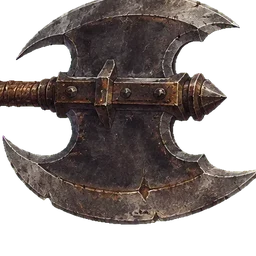
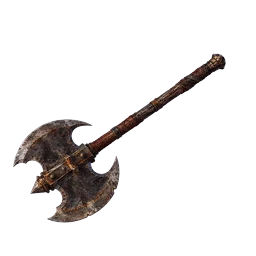
Add files via upload

diff --git a/index.html b/index.html
@@ -5,7 +5,7 @@
   <meta name="viewport" content="width=device-width, initial-scale=1, maximum-scale=1, user-scalable=no, viewport-fit=cover">
   <meta name="theme-color" content="#0b0a10">
   <title>천공탑 — 홀로 오르는 자</title>
-  <link rel="stylesheet" href="css/style.css?v=75">
+  <link rel="stylesheet" href="css/style.css?v=76">
 </head>
 <body>
   <canvas id="game"></canvas>
@@ -47,7 +47,7 @@
     <h1>천공탑</h1>
     <p class="sub">홀로 오르는 자</p>
     <p class="tap">화면을 터치해서 시작</p>
-    <p class="ver">개발 버전 · v75</p>
+    <p class="ver">개발 버전 · v76</p>
   </div>
 
   <!-- 로비 (탑 입구) -->
@@ -131,34 +131,34 @@
 
   <!-- 순서 중요: 위에 있는 파일을 아래 파일이 사용함 -->
   <!-- ?v= 숫자: 업데이트할 때마다 올리기 (config.js의 G.VERSION과 같은 숫자) -->
-  <script src="js/config.js?v=75"></script>
-  <script src="js/save.js?v=75"></script>
-  <script src="js/sound.js?v=75"></script>
-  <script src="js/items.js?v=75"></script>
-  <script src="js/skills.js?v=75"></script>
-  <script src="js/input.js?v=75"></script>
-  <script src="js/rig.js?v=75"></script>
-  <script src="js/render.js?v=75"></script>
-  <script src="js/stage.js?v=75"></script>
-  <script src="js/effects.js?v=75"></script>
-  <script src="js/combat.js?v=75"></script>
-  <script src="js/player.js?v=75"></script>
-  <script src="js/bosses.js?v=75"></script>
-  <script src="js/bossfx.js?v=75"></script>
-  <script src="js/boss.js?v=75"></script>
-  <script src="js/beast.js?v=75"></script>
-  <script src="js/flyer.js?v=75"></script>
-  <script src="js/brute.js?v=75"></script>
-  <script src="js/floors.js?v=75"></script>
-  <script src="js/mobsprite.js?v=75"></script>
-  <script src="js/mobs.js?v=75"></script>
-  <script src="js/intro.js?v=75"></script>
-  <script src="js/cine.js?v=75"></script>
-  <script src="js/talk.js?v=75"></script>
-  <script src="js/floor.js?v=75"></script>
-  <script src="js/hero3d.js?v=75"></script>
-  <script src="js/descent.js?v=75"></script>
-  <script src="js/lobby.js?v=75"></script>
-  <script src="js/main.js?v=75"></script>
+  <script src="js/config.js?v=76"></script>
+  <script src="js/save.js?v=76"></script>
+  <script src="js/sound.js?v=76"></script>
+  <script src="js/items.js?v=76"></script>
+  <script src="js/skills.js?v=76"></script>
+  <script src="js/input.js?v=76"></script>
+  <script src="js/rig.js?v=76"></script>
+  <script src="js/render.js?v=76"></script>
+  <script src="js/stage.js?v=76"></script>
+  <script src="js/effects.js?v=76"></script>
+  <script src="js/combat.js?v=76"></script>
+  <script src="js/player.js?v=76"></script>
+  <script src="js/bosses.js?v=76"></script>
+  <script src="js/bossfx.js?v=76"></script>
+  <script src="js/boss.js?v=76"></script>
+  <script src="js/beast.js?v=76"></script>
+  <script src="js/flyer.js?v=76"></script>
+  <script src="js/brute.js?v=76"></script>
+  <script src="js/floors.js?v=76"></script>
+  <script src="js/mobsprite.js?v=76"></script>
+  <script src="js/mobs.js?v=76"></script>
+  <script src="js/intro.js?v=76"></script>
+  <script src="js/cine.js?v=76"></script>
+  <script src="js/talk.js?v=76"></script>
+  <script src="js/floor.js?v=76"></script>
+  <script src="js/hero3d.js?v=76"></script>
+  <script src="js/descent.js?v=76"></script>
+  <script src="js/lobby.js?v=76"></script>
+  <script src="js/main.js?v=76"></script>
 </body>
 </html>

diff --git a/js/items.js b/js/items.js
@@ -26,14 +26,17 @@ G.Items = {
     desc: '사냥꾼들을 삼킨 짐승의 부러진 엄니. 궁지에 몰릴수록 피가 끓어오른다.',
     special: { kind: 'frenzy', below: 0.3, mul: 1.5, text: '체력 30% 이하일 때 공격력 50% 증가' },
   },
-  // 미노타우로스의 도끼 (무기): 공격력이 크게 오르지만 휘두르는 속도가 15% 느려짐
-  //   도끼 그림(sword)이 아직 없어서 손에 든 무기는 기본 검 모양. 그림이 오면 sword·fx를 채움
+  // 미노타우로스의 도끼 (무기): 공격력 +3, 3타가 땅을 찍으면 앞으로 충격파. 대신 휘두르는 속도가 15% 느려짐
   mino_axe: {
     name: '미노타우로스의 도끼', slot: 'weapon', from: '4F 미노타우로스',
     icon: 'assets/items/mino_axe_icon.webp',
     desc: '미궁의 괴물이 평생 휘두른 양날 도끼. 무겁지만, 한 번 맞으면 끝이다.',
-    atk: 5,
-    special: { kind: 'swift', mul: 0.85, text: '공격력 +5, 대신 공격 속도 15% 느림' },
+    atk: 3,
+    speed: 0.85,                                        // 공격 속도 배율 (15% 느림)
+    special: { kind: 'quake', dmg: 9, range: 320, speed: 650, text: '3타가 땅을 찍어 앞으로 충격파 — 줄에 선 적 모두에게 9 추가 피해 (공격 속도 15% 느림)' },
+    // 그림: 도끼날이 왼쪽, 손잡이가 오른쪽 (받은 그림을 좌우 반전). grip은 원본 크기(1760×769) 기준 손잡이 끝 쪽
+    sword: { img: 'assets/items/mino_axe.webp', shape: 'assets/items/mino_axe.json', len: 1.3, grip: [1500, 367] },
+    fx: { slash: '255, 170, 90', heavy: '255, 120, 60', edge: '255, 230, 200', trail: '255, 150, 80', spark: '255, 180, 100' },
   },
   // 여왕의 깃털 (장신구): 3단 점프 — 어느 층에서든 공중에서 두 번 더 뛰어오름
   //   (공격 속도 효과 swift는 나중 장비에 쓸 수 있게 G.Equip.atkSpeed로 남겨 둠)
@@ -77,8 +80,8 @@ G.Equip = (function () {
     O.push(id); G.Save.save();
     return G.Items[id];
   }
-  // 공격 속도 배율 (special kind 'swift'의 mul. 1보다 작으면 느려짐 — 미노타우로스의 도끼 0.85)
-  function atkSpeed() { const f = special('swift'); return f ? f.mul : 1; }
+  // 공격 속도 배율: 장비의 speed(또는 special 'swift'의 mul)를 곱함. 1보다 작으면 느려짐 — 미노타우로스의 도끼 0.85
+  function atkSpeed() { return list().reduce((m, it) => m * (it.speed || (it.special && it.special.kind === 'swift' ? it.special.mul : 1)), 1); }
   // 지금 든 무기의 이펙트 색 (없으면 null = 기본 색)
   function fx() { const w = item('weapon'); return (w && w.fx) || null; }
   // 칼리돈의 엄니: 지금 효과가 켜져 있는가 (체력이 기준 이하)

diff --git a/js/combat.js b/js/combat.js
@@ -127,10 +127,37 @@ G.Combat = (function () {
         G.FX.text(t.x + 10, S().screenY(t.z, t.h + t.height) - 20, String(th.dmg), '#9df07a');
       }
     }
+    // 미노타우로스의 도끼: 3타가 땅을 찍으면 앞으로 충격파가 달려가 줄에 선 적 모두에게 추가 피해 (맞든 안 맞든, 땅에서만)
+    const qk = a.kind === 'side3' && !a.quaked && p.onGround && G.Equip.special('quake');
+    if (qk) {
+      a.quaked = true;
+      const dir = Math.sign(a.dir.x) || p.facing || 1;
+      quakes.push({ x: p.x + dir * 50, z: p.z, dir, left: qk.range, sp: qk.speed, dmg: qk.dmg, hit: new Set() });
+      G.Sound.play('smash', { rate: 1.3, vol: 0.6 }); G.FX.shake(5, 0.15);
+      G.BFX.debris(p.x + dir * 50, p.z, 8, 0.7);
+    }
     return hitAny;
+  }
+  // 충격파 (도끼 3타): 바닥을 타고 앞으로 달려감. 지나가는 자리마다 먼지·파편
+  const quakes = [];
+  function updateQuakes(dt) {
+    for (const q of quakes) {
+      const step = q.sp * dt;
+      q.x += q.dir * step; q.left -= step;
+      if (Math.random() < dt * 40) G.BFX.dust(q.x, q.z + (Math.random() - 0.5) * 20, 1, 0.7, '150, 120, 90');
+      if (Math.random() < dt * 14) G.BFX.debris(q.x, q.z, 2, 0.5);
+      for (const t of targets) {
+        if (t.active === false || t.dummy || !t.onHit || q.hit.has(t)) continue;
+        if (Math.abs(t.x - q.x) > t.w / 2 + 14 || Math.abs(t.z - q.z) > 40 || t.h > 60) continue;
+        q.hit.add(t);
+        if (t.onHit(q.dmg, q.dir, null) !== false) G.FX.text(t.x + 10, S().screenY(t.z, t.h + t.height) - 20, String(q.dmg), '#ffb070');
+      }
+    }
+    for (let i = quakes.length - 1; i >= 0; i--) if (quakes[i].left <= 0) quakes.splice(i, 1);
   }
 
   function update(dt) {
+    updateQuakes(dt);
     for (const t of targets) {
       if (!t.dummy) continue;
       t.flash = Math.max(0, t.flash - dt);

diff --git a/js/config.js b/js/config.js
@@ -7,7 +7,7 @@ window.G = window.G || {};
 
 // 업데이트 번호: 파일을 새로 올릴 때마다 1씩 올리면, 휴대폰 브라우저가 예전 파일(캐시)을 쓰지 않고 새로 받음
 // (index.html의 ?v= 숫자도 같이 올리기)
-G.VERSION = 75;
+G.VERSION = 76;
 
 G.CFG = {
   VIEW_H: 520,        // 화면 세로 기준 크기. 클수록 멀리서 보는 느낌 (캐릭터 작게, 보스 크게)
